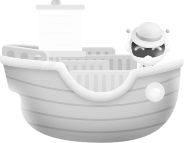
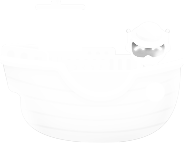
sync

diff --git a/src/scenes/Game15/Play.ts b/src/scenes/Game15/Play.ts
@@ -327,7 +327,6 @@ export default class Game15PlayScene extends Phaser.Scene {
                     carriage.disableInteractive();
                 })
             } else if (value.msg === "所有货物都可搬运") {
-                console.log("收到消息");
                 this.carriages.forEach(carriage => {
                     carriage.setInteractive();
                 })
@@ -359,14 +358,14 @@ export default class Game15PlayScene extends Phaser.Scene {
             } else if (value.msg === "被碰撞货船停止闪烁") {
                 value.hitShip.swicthAnimate.stop();
                 value.hitShip.swicthAnimate = null;
-                value.hitShip.alpha = 1;
+                value.hitShip.bg.alpha = 1;
             } else if (value.msg === "停止所有货船闪烁") {
                 this.ships.forEach(ship => {
                     //ship.swicthAnimateTween.pause();
                     if (ship.swicthAnimate !== null) {
                         ship.swicthAnimate.stop();
                         ship.swicthAnimate = null;
-                        ship.alpha = 1;
+                        ship.bg.alpha = 1;
                     }
                 })
             }

diff --git a/src/Public/jonny/game15/Ship.ts b/src/Public/jonny/game15/Ship.ts
@@ -40,7 +40,7 @@ export class Ship extends Phaser.GameObjects.Container {
     public swicthAnimateTween() {
         if (this.swicthAnimate === null) {
             this.swicthAnimate = this.scene.add.tween(<Phaser.Types.Tweens.TweenBuilderConfig>{
-                targets: this,
+                targets: this.bg,
                 alpha: 0,
                 duration: 500,
                 yoyo: true,
